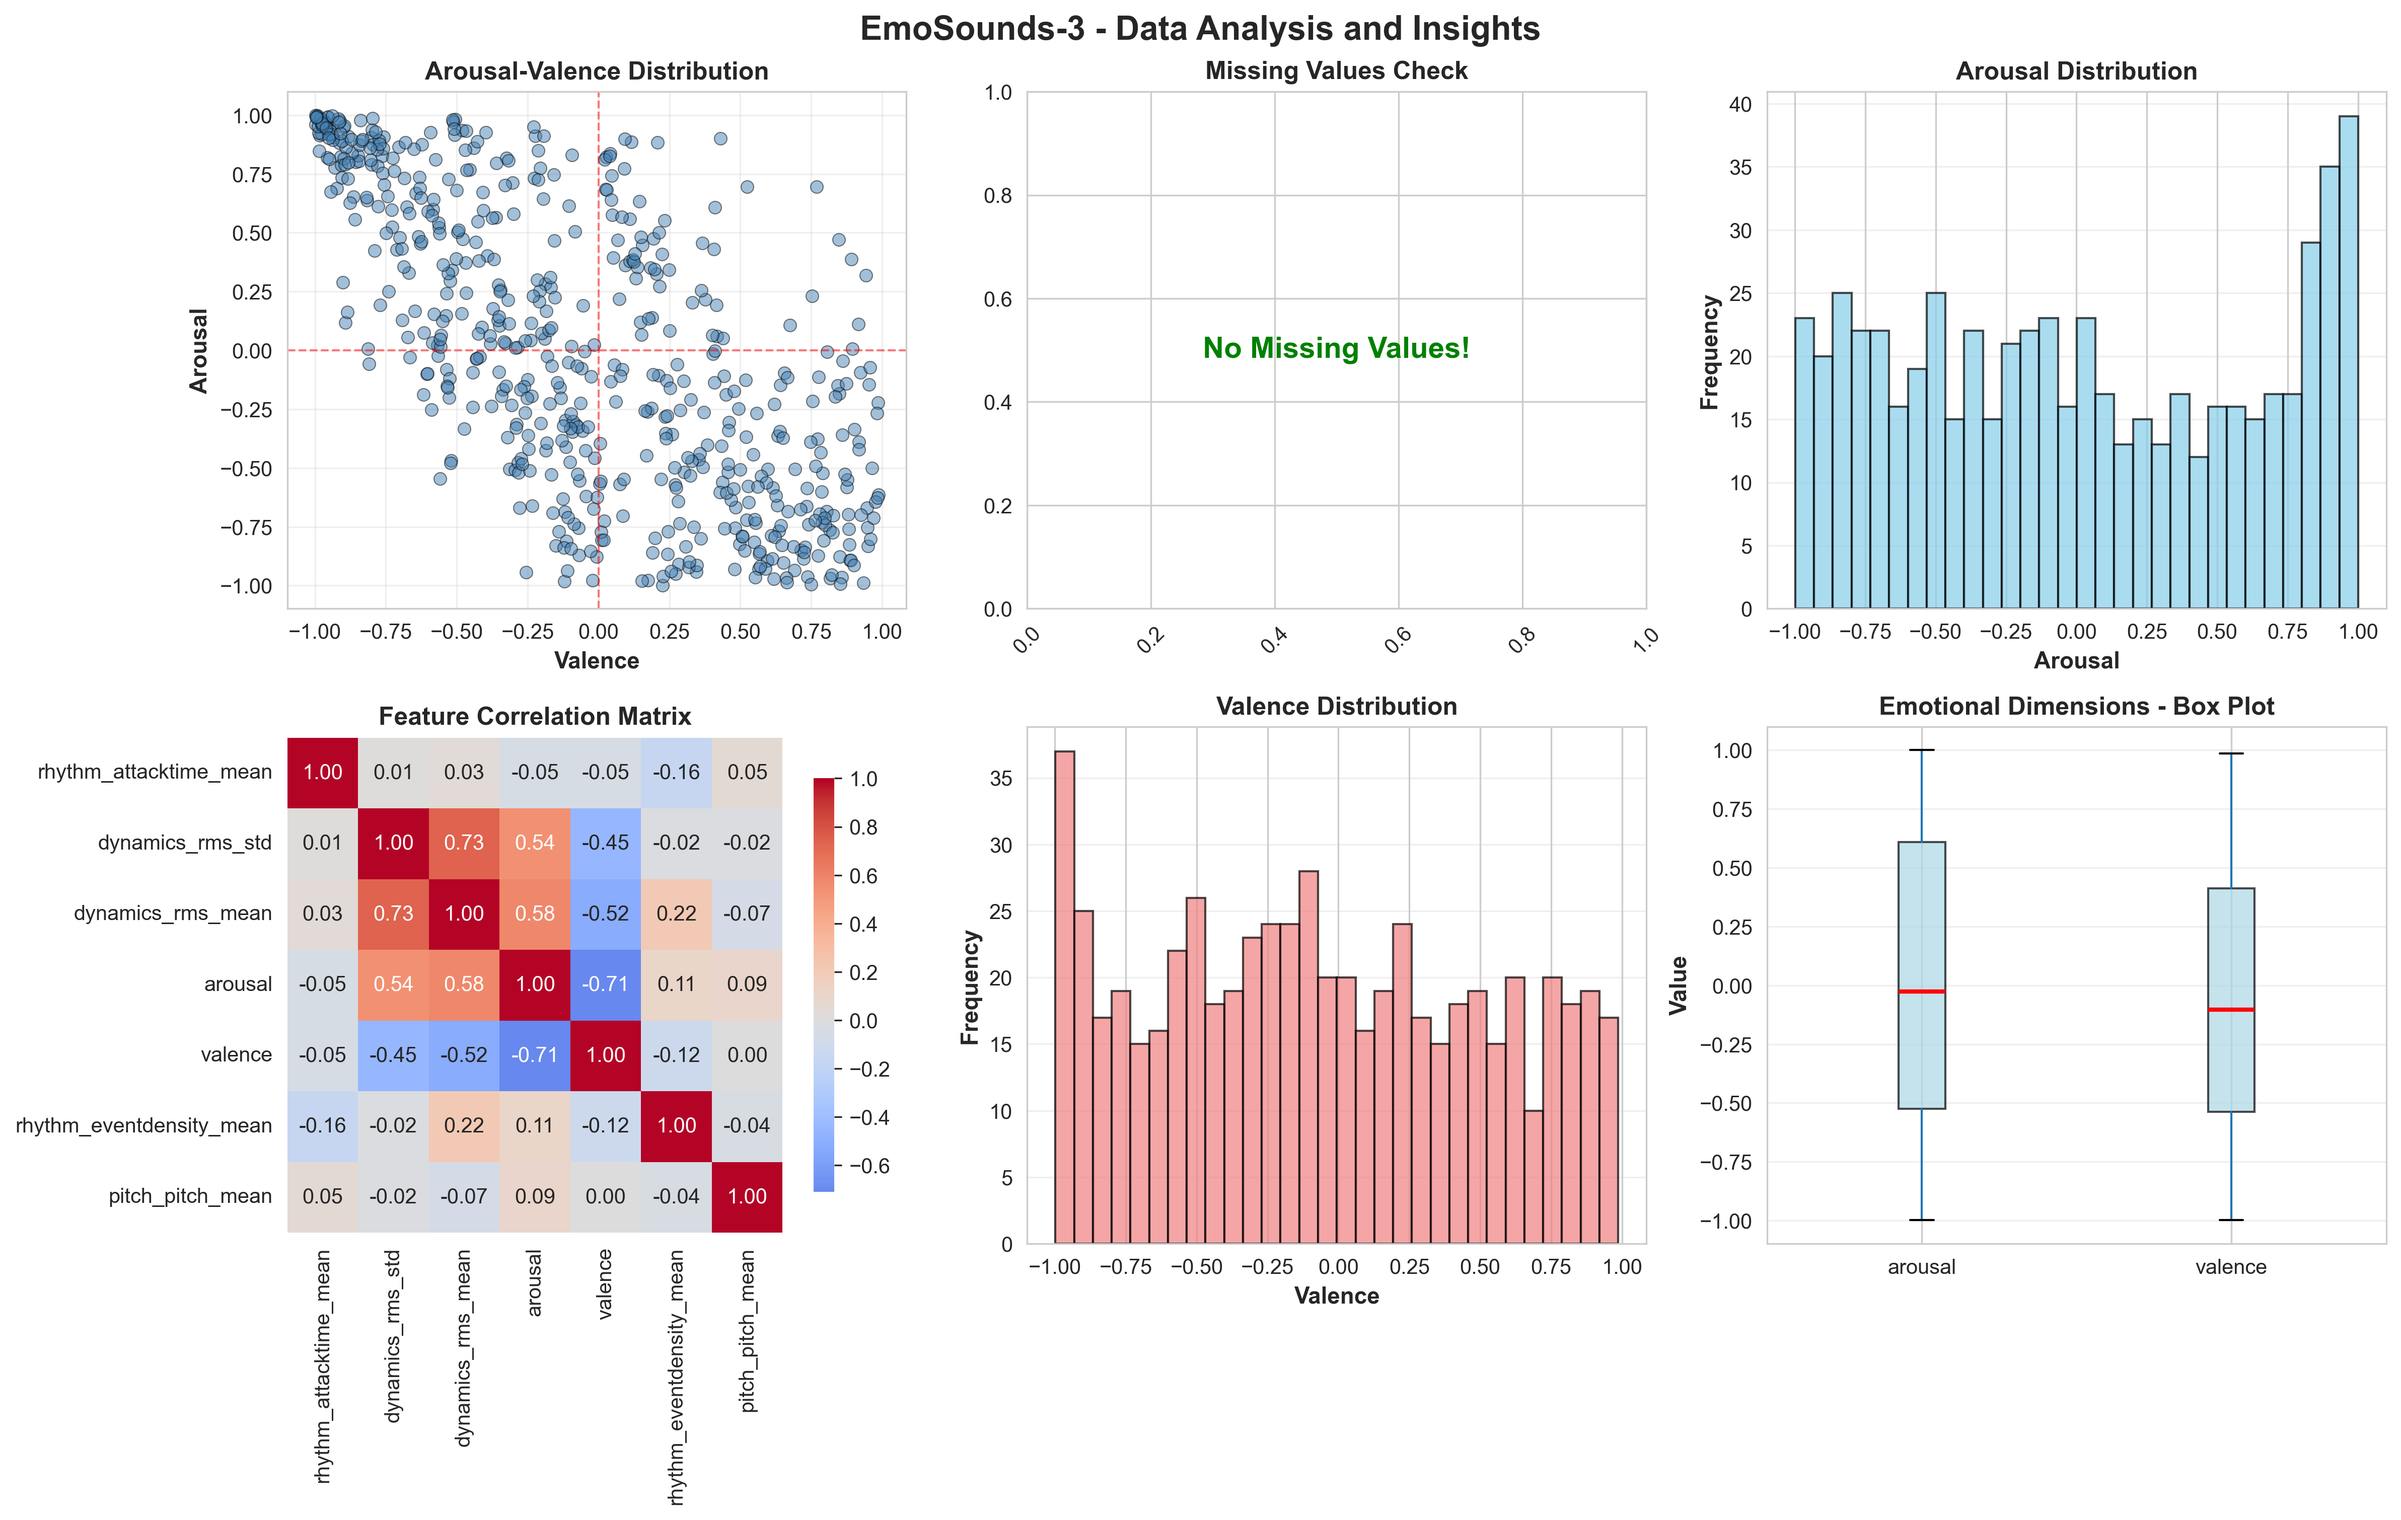
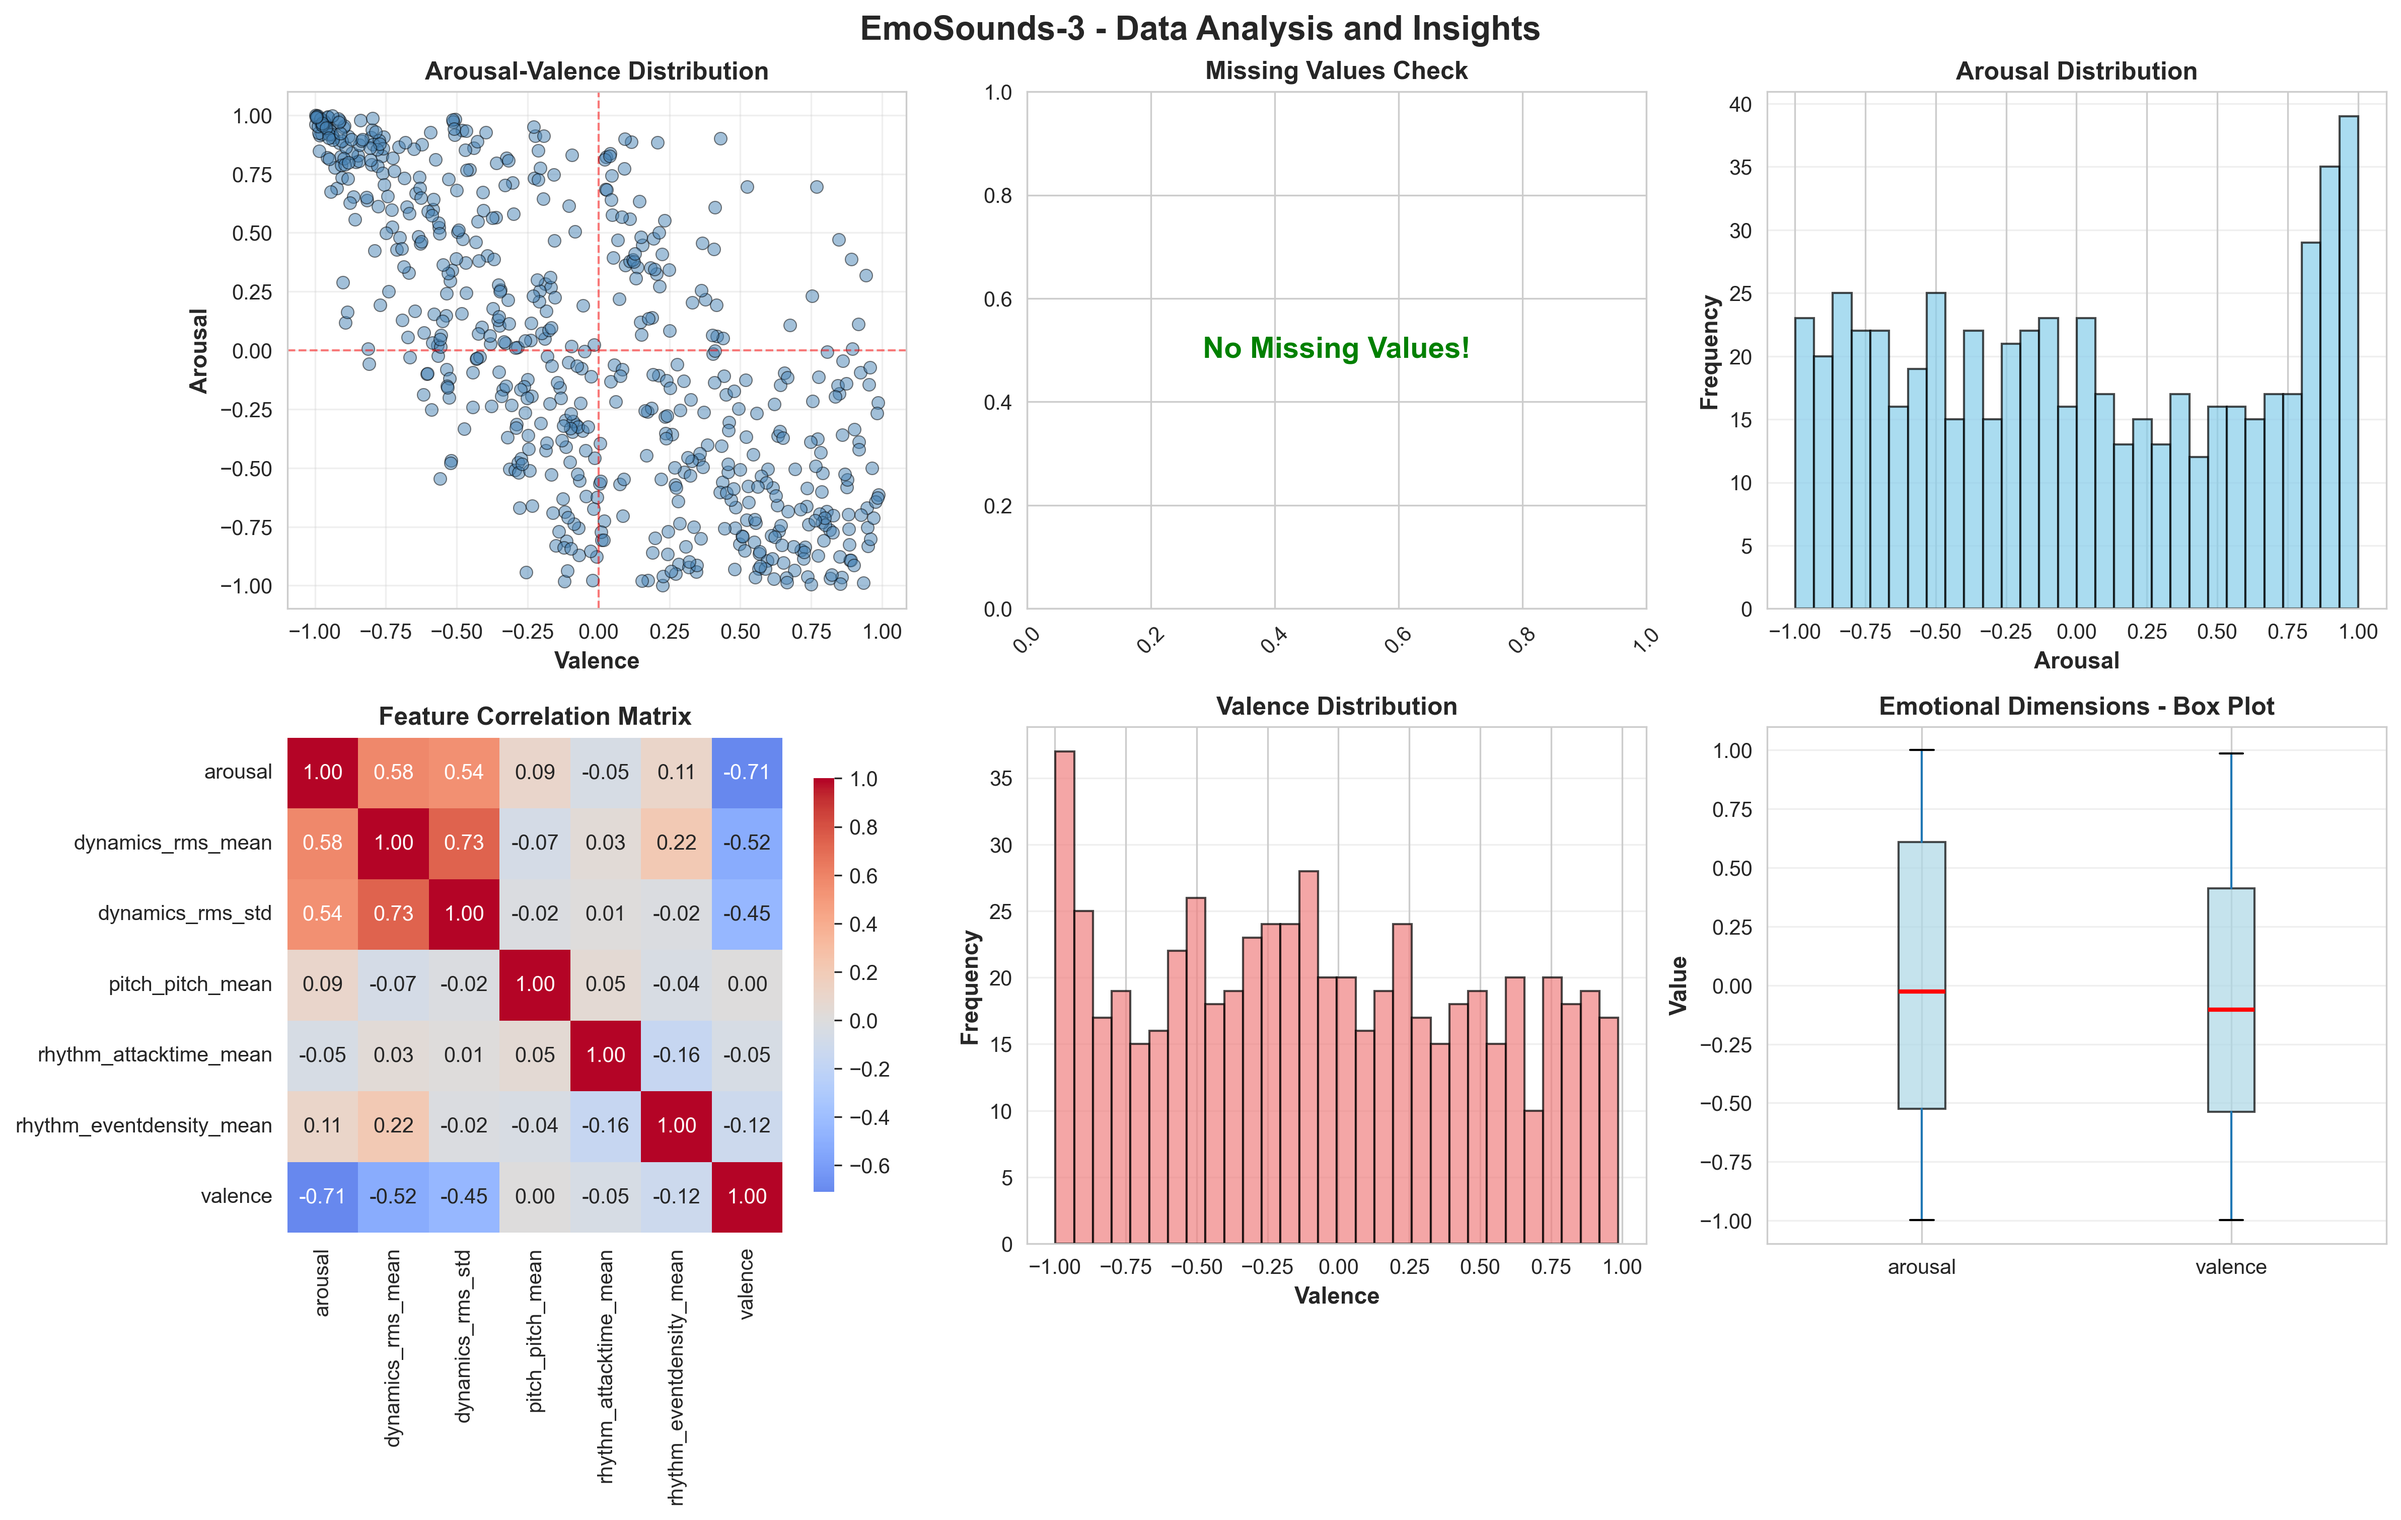
New graphs and consistency

diff --git a/data_preprocessing.py b/data_preprocessing.py
@@ -145,12 +145,21 @@ def visualize_data(df, dataset_name):
     print(f"STEP 3: DATA VISUALIZATION - {dataset_name}")
     print(f"{'=' * 80}")
     
+    # Check if dominance exists to determine layout
+    has_dominance = 'dominance' in df.columns
+    
     # Create a figure with multiple subplots
-    fig = plt.figure(figsize=(16, 10))
+    if has_dominance:
+        fig = plt.figure(figsize=(18, 14))
+        rows, cols = 3, 3
+    else:
+        fig = plt.figure(figsize=(16, 10))
+        rows, cols = 2, 3
+    
     fig.suptitle(f'{dataset_name} - Data Analysis and Insights', fontsize=16, fontweight='bold')
     
     # Visualization 1: Distribution of emotional dimensions
-    ax1 = plt.subplot(2, 3, 1)
+    ax1 = plt.subplot(rows, cols, 1)
     if 'arousal' in df.columns and 'valence' in df.columns:
         # Detect scale type for threshold lines
         arousal_min = df['arousal'].min()
@@ -173,7 +182,7 @@ def visualize_data(df, dataset_name):
         ax1.axvline(x=valence_threshold, color='red', linestyle='--', linewidth=1, alpha=0.5)
     
     # Visualization 2: Missing values heatmap
-    ax2 = plt.subplot(2, 3, 2)
+    ax2 = plt.subplot(rows, cols, 2)
     numeric_cols = df.select_dtypes(include=[np.number]).columns[:20]  # First 20 numeric columns
     missing_data = df[numeric_cols].isnull().sum()
     if missing_data.sum() > 0:
@@ -188,7 +197,7 @@ def visualize_data(df, dataset_name):
     ax2.tick_params(axis='x', rotation=45)
     
     # Visualization 3: Distribution of key features
-    ax3 = plt.subplot(2, 3, 3)
+    ax3 = plt.subplot(rows, cols, 3)
     if 'arousal' in df.columns:
         ax3.hist(df['arousal'], bins=30, alpha=0.7, color='skyblue', edgecolor='black')
         ax3.set_xlabel('Arousal', fontsize=11, fontweight='bold')
@@ -197,10 +206,10 @@ def visualize_data(df, dataset_name):
         ax3.grid(True, alpha=0.3, axis='y')
     
     # Visualization 4: Correlation heatmap of top features
-    ax4 = plt.subplot(2, 3, 4)
+    ax4 = plt.subplot(rows, cols, 4)
     emotion_features = [col for col in ['arousal', 'valence', 'dominance'] if col in df.columns]
     acoustic_features = df.select_dtypes(include=[np.number]).columns[:7]
-    features_to_correlate = list(set(emotion_features) | set(acoustic_features))
+    features_to_correlate = sorted(list(set(emotion_features) | set(acoustic_features)))
     
     if len(features_to_correlate) > 1:
         corr_matrix = df[features_to_correlate].corr()
@@ -209,7 +218,7 @@ def visualize_data(df, dataset_name):
         ax4.set_title('Feature Correlation Matrix', fontsize=12, fontweight='bold')
     
     # Visualization 5: Valence distribution
-    ax5 = plt.subplot(2, 3, 5)
+    ax5 = plt.subplot(rows, cols, 5)
     if 'valence' in df.columns:
         ax5.hist(df['valence'], bins=30, alpha=0.7, color='lightcoral', edgecolor='black')
         ax5.set_xlabel('Valence', fontsize=11, fontweight='bold')
@@ -218,7 +227,7 @@ def visualize_data(df, dataset_name):
         ax5.grid(True, alpha=0.3, axis='y')
     
     # Visualization 6: Box plot of emotional dimensions
-    ax6 = plt.subplot(2, 3, 6)
+    ax6 = plt.subplot(rows, cols, 6)
     emotion_cols = [col for col in ['arousal', 'valence', 'dominance'] if col in df.columns]
     if emotion_cols:
         df[emotion_cols].boxplot(ax=ax6, patch_artist=True, 
@@ -227,6 +236,61 @@ def visualize_data(df, dataset_name):
         ax6.set_title('Emotional Dimensions - Box Plot', fontsize=12, fontweight='bold')
         ax6.set_ylabel('Value', fontsize=11, fontweight='bold')
         ax6.grid(True, alpha=0.3, axis='y')
+    
+    # Visualization 7: Dominance distribution (only if dominance exists)
+    if has_dominance:
+        ax7 = plt.subplot(rows, cols, 7)
+        ax7.hist(df['dominance'], bins=30, alpha=0.7, color='mediumseagreen', edgecolor='black')
+        ax7.set_xlabel('Dominance', fontsize=11, fontweight='bold')
+        ax7.set_ylabel('Frequency', fontsize=11, fontweight='bold')
+        ax7.set_title('Dominance Distribution', fontsize=12, fontweight='bold')
+        ax7.grid(True, alpha=0.3, axis='y')
+        
+        # Visualization 8: Dominance vs Arousal
+        ax8 = plt.subplot(rows, cols, 8)
+        if 'arousal' in df.columns:
+            # Detect scale type for threshold lines
+            dominance_min = df['dominance'].min()
+            arousal_min = df['arousal'].min()
+            
+            if dominance_min < 0 and arousal_min < 0:
+                dominance_threshold = 0
+                arousal_threshold = 0
+            else:
+                dominance_threshold = (df['dominance'].max() + df['dominance'].min()) / 2
+                arousal_threshold = (df['arousal'].max() + df['arousal'].min()) / 2
+            
+            ax8.scatter(df['dominance'], df['arousal'], alpha=0.5, c='mediumseagreen', edgecolors='black', linewidth=0.5)
+            ax8.set_xlabel('Dominance', fontsize=11, fontweight='bold')
+            ax8.set_ylabel('Arousal', fontsize=11, fontweight='bold')
+            ax8.set_title('Dominance-Arousal Distribution', fontsize=12, fontweight='bold')
+            ax8.grid(True, alpha=0.3)
+            # Draw threshold lines
+            ax8.axhline(y=arousal_threshold, color='red', linestyle='--', linewidth=1, alpha=0.5)
+            ax8.axvline(x=dominance_threshold, color='red', linestyle='--', linewidth=1, alpha=0.5)
+        
+        # Visualization 9: Dominance vs Valence
+        ax9 = plt.subplot(rows, cols, 9)
+        if 'valence' in df.columns:
+            # Detect scale type for threshold lines
+            dominance_min = df['dominance'].min()
+            valence_min = df['valence'].min()
+            
+            if dominance_min < 0 and valence_min < 0:
+                dominance_threshold = 0
+                valence_threshold = 0
+            else:
+                dominance_threshold = (df['dominance'].max() + df['dominance'].min()) / 2
+                valence_threshold = (df['valence'].max() + df['valence'].min()) / 2
+            
+            ax9.scatter(df['dominance'], df['valence'], alpha=0.5, c='mediumpurple', edgecolors='black', linewidth=0.5)
+            ax9.set_xlabel('Dominance', fontsize=11, fontweight='bold')
+            ax9.set_ylabel('Valence', fontsize=11, fontweight='bold')
+            ax9.set_title('Dominance-Valence Distribution', fontsize=12, fontweight='bold')
+            ax9.grid(True, alpha=0.3)
+            # Draw threshold lines
+            ax9.axhline(y=valence_threshold, color='red', linestyle='--', linewidth=1, alpha=0.5)
+            ax9.axvline(x=dominance_threshold, color='red', linestyle='--', linewidth=1, alpha=0.5)
     
     plt.tight_layout()
     
